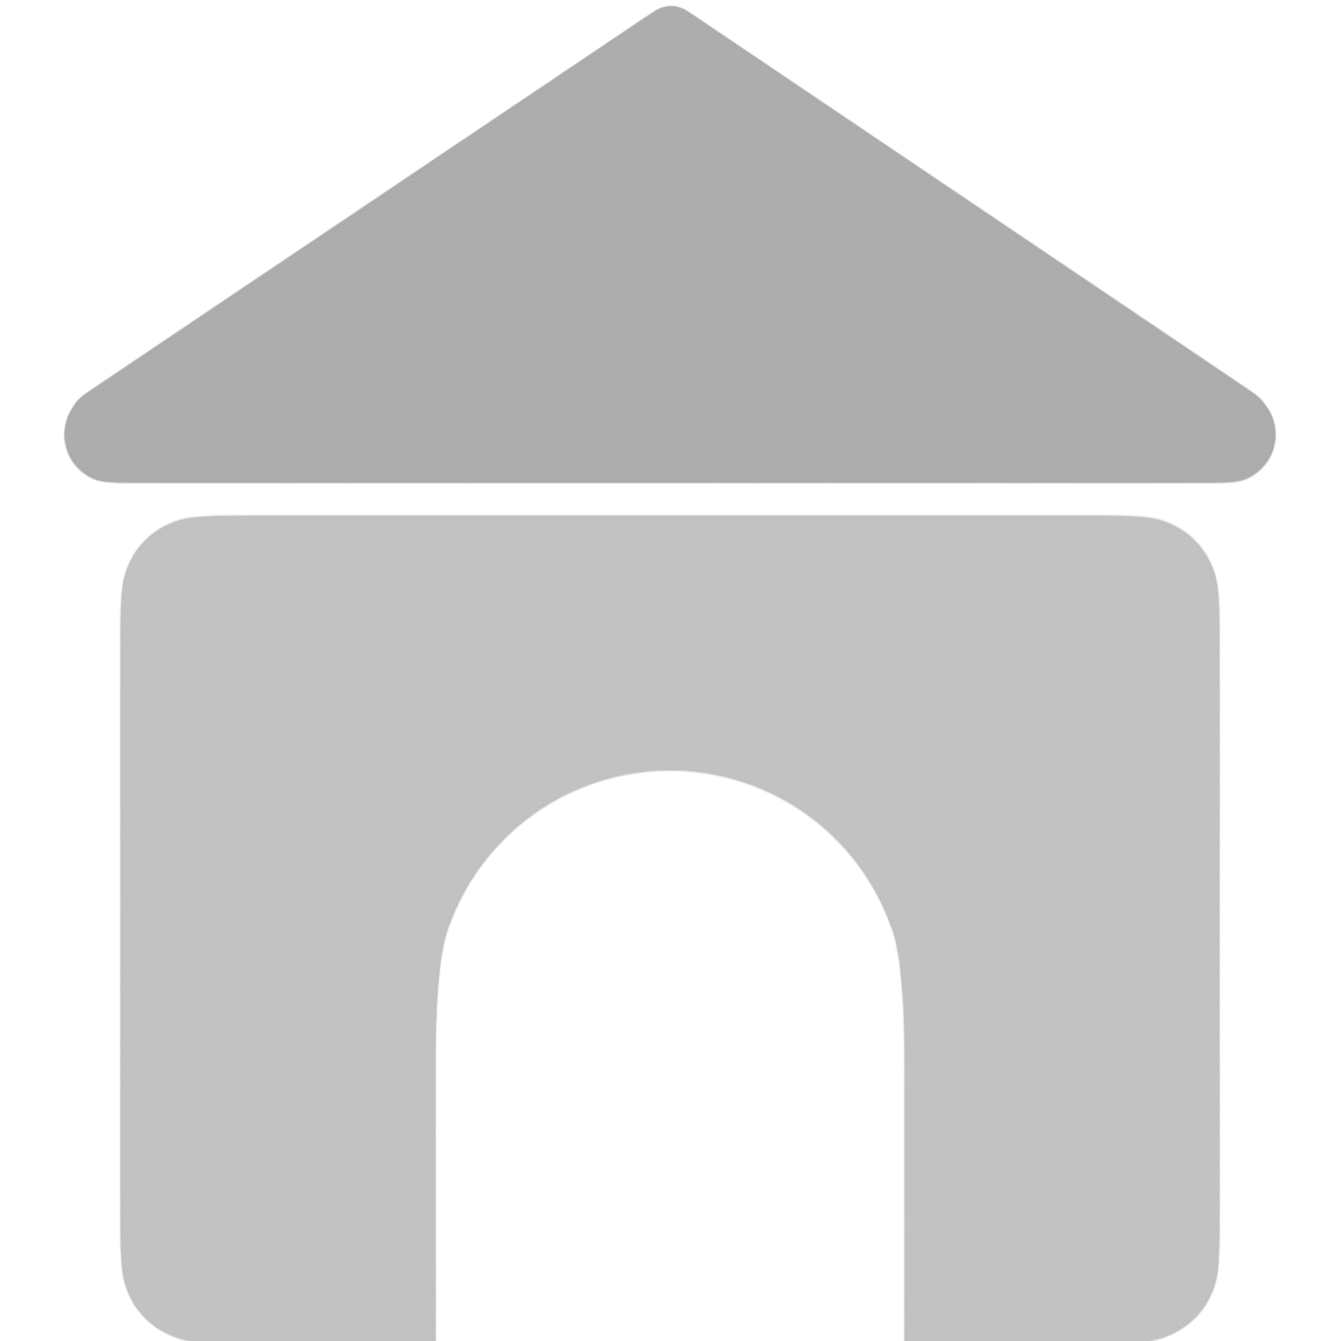
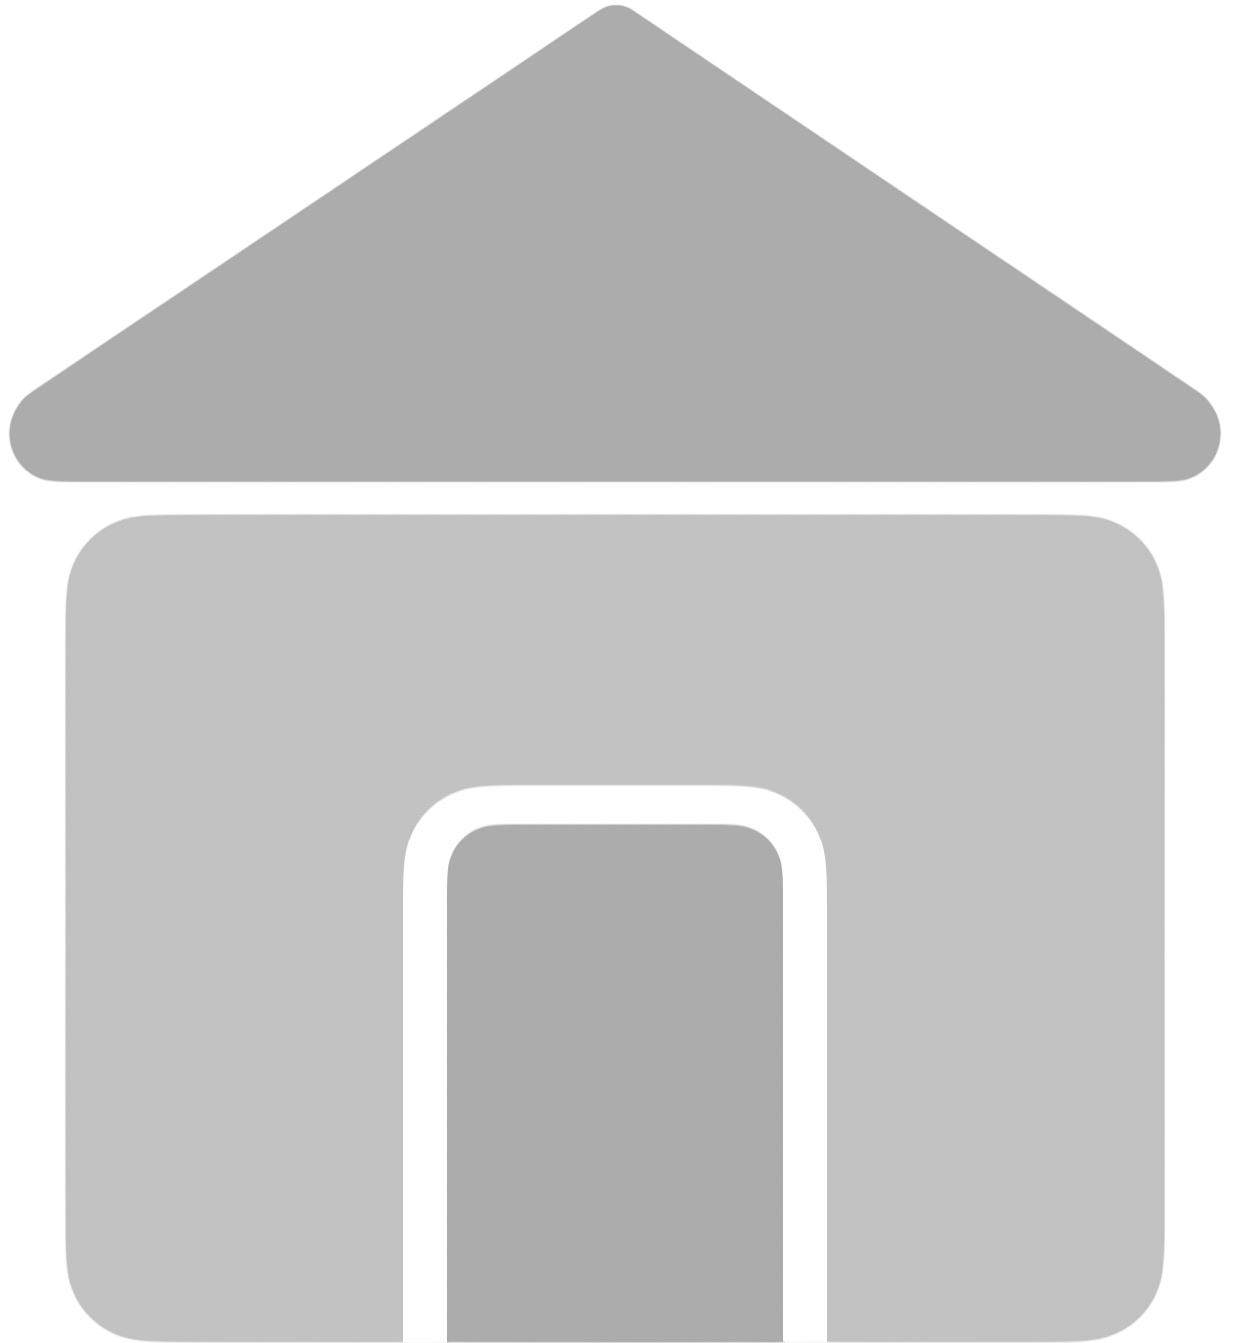
tiny patch

diff --git a/static/style.css b/static/style.css
@@ -514,9 +514,8 @@ body {
     text-align: center;
     cursor: pointer;
     background: var(--color-white);
+    border-radius: 22px;
     padding: 28px 14px 18px;
-    border-radius: var(--radius-lg);
-    border: 2px dashed var(--color-gray-200);
     position: relative;
     /* Silky smooth transitions */
     transition: background-color 0.3s var(--ease-out-quint),
@@ -526,13 +525,11 @@ body {
 }
 
 .upload-zone:hover {
-    border-color: var(--color-primary-mid);
     transform: scale(1.01);
 }
 
 /* Elevated response when a file is dragged over */
 .upload-zone.drag-over {
-    border-color: var(--color-emerald-700);
     background-color: rgba(212, 232, 216, 0.4);
     box-shadow: 0 0 0 6px rgba(61, 106, 75, 0.15);
     transform: scale(1.03);
@@ -546,7 +543,6 @@ body {
     width: 64px;
     height: 64px;
     margin: 0 auto 8px;
-    border-radius: 50%;
     display: flex;
     align-items: center;
     justify-content: center;
@@ -2301,7 +2297,6 @@ body:has(.camera-modal.is-shown) .app-header,
 }
 
 [data-theme="dark"] .upload-zone {
-    border-color: var(--color-gray-200);
     background: var(--color-gray-50);
 }
 

diff --git a/templates/index.html b/templates/index.html
@@ -42,7 +42,7 @@
       </div>
 
       <div class="upload-zone" id="upload-zone" onclick="zoneTap()">
-        <div class="upload-zone-icon"><img src="/static/assets/Scan.png" alt="Scan" style="width:100%;height:100%;object-fit:contain"></div>
+        <div class="upload-zone-icon"><img src="/static/assets/Scan.png" alt="Scan" style="width:75%;height:75%;object-fit:contain"></div>
         <div class="upload-zone-text" id="lbl-upload-text">Tap to scan</div>
         <div class="upload-zone-sub" id="lbl-upload-hint">or drag &amp; drop anywhere</div>
         <input type="file" id="file-input" accept="image/*" capture="environment" onchange="handleFileSelect(event)" class="hidden">